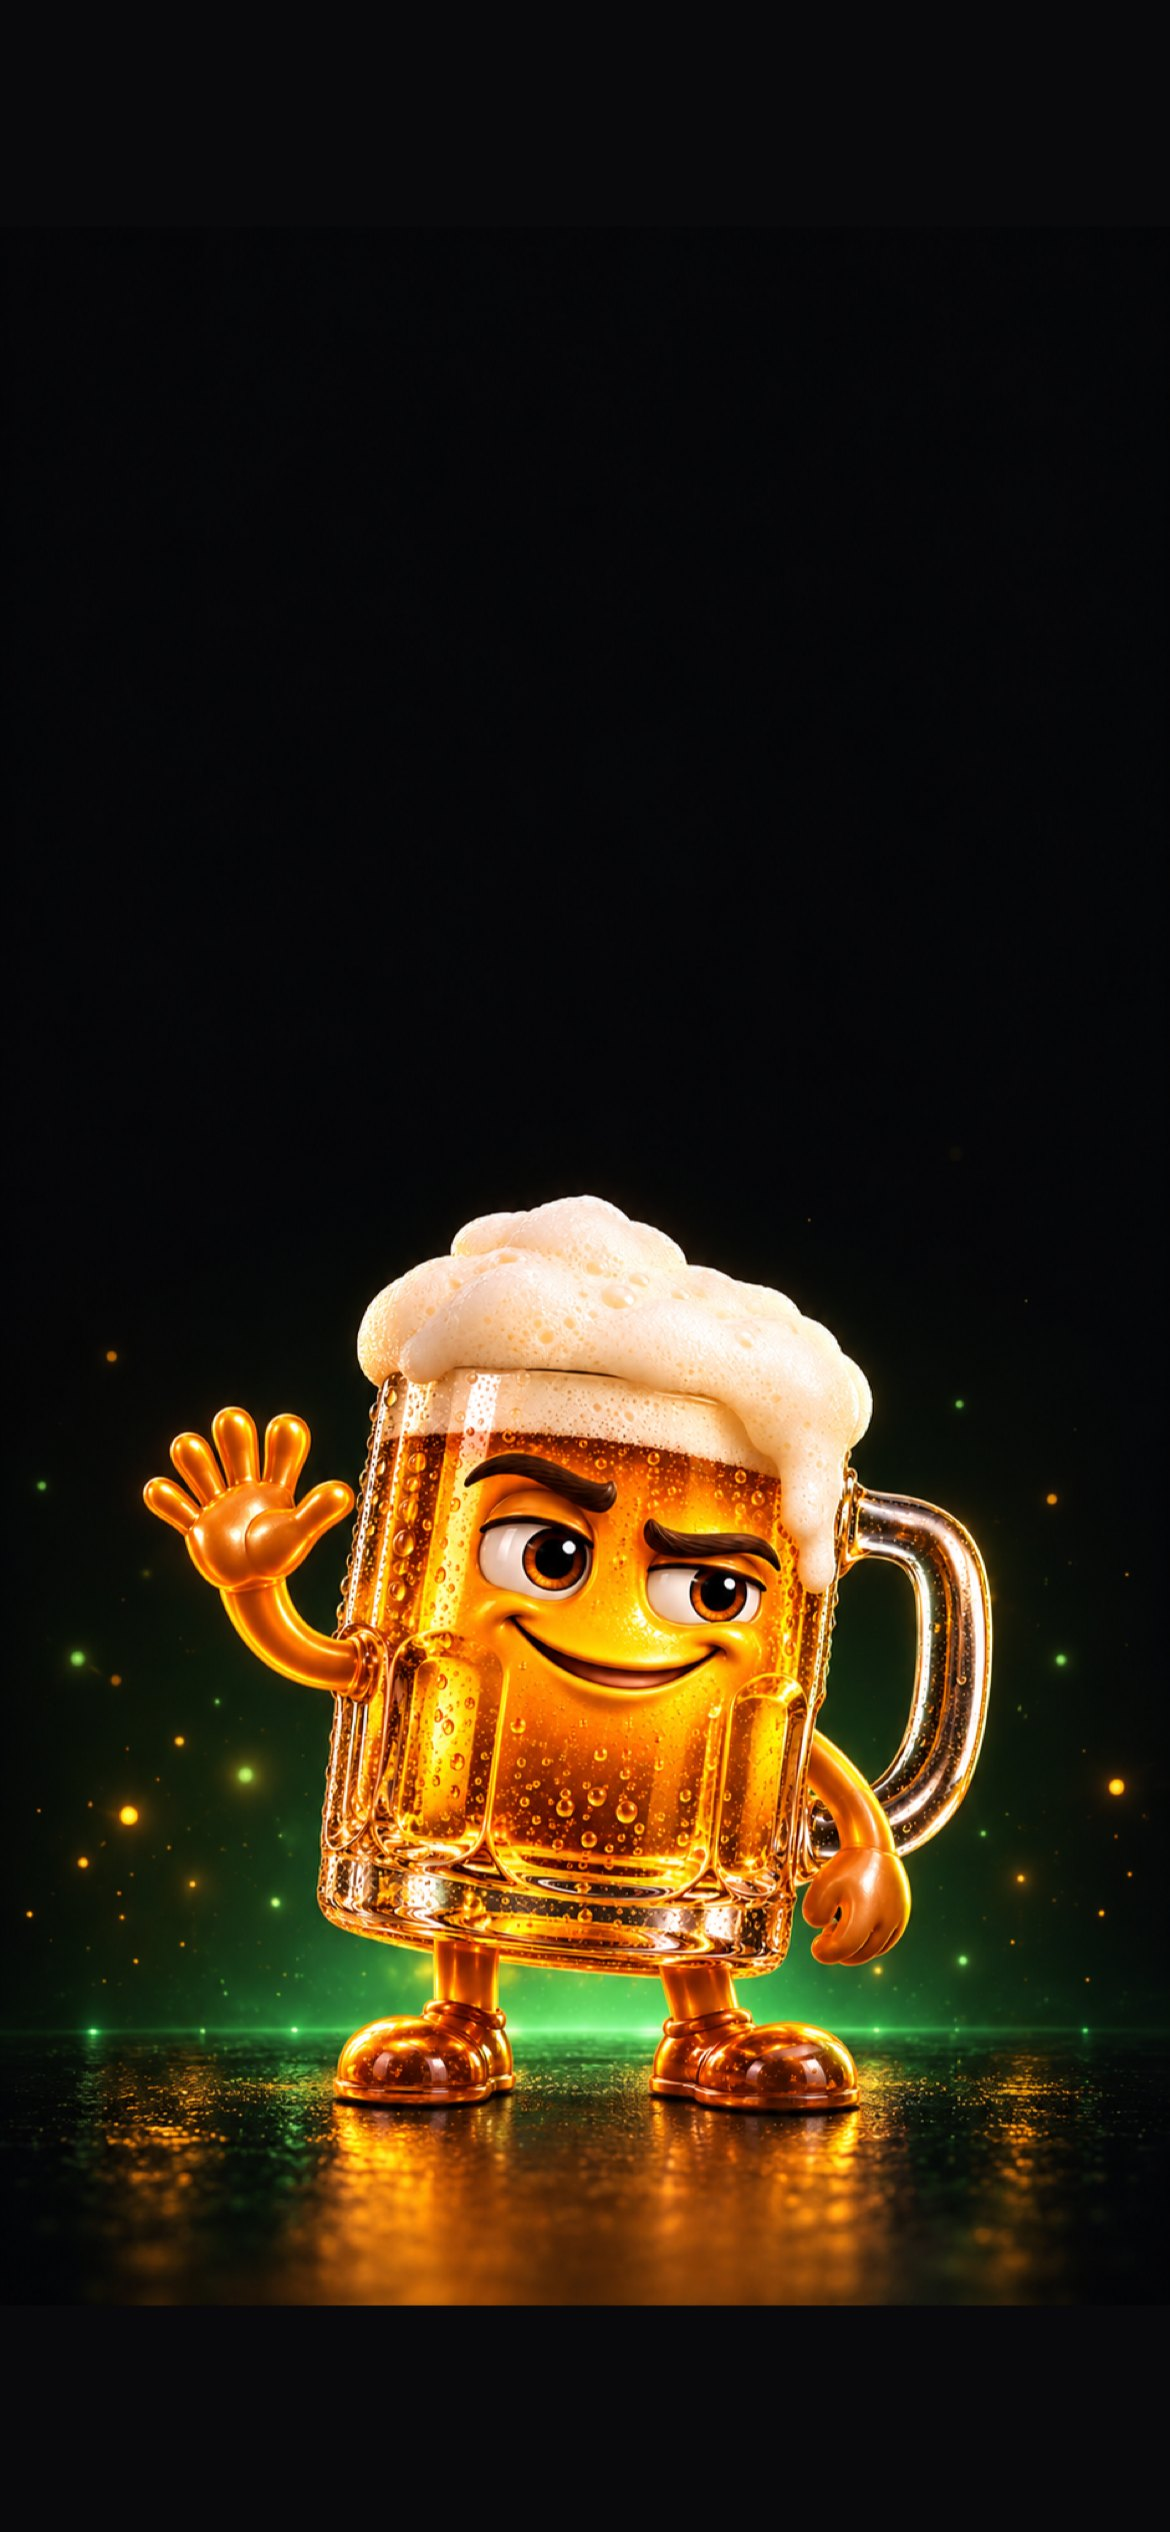
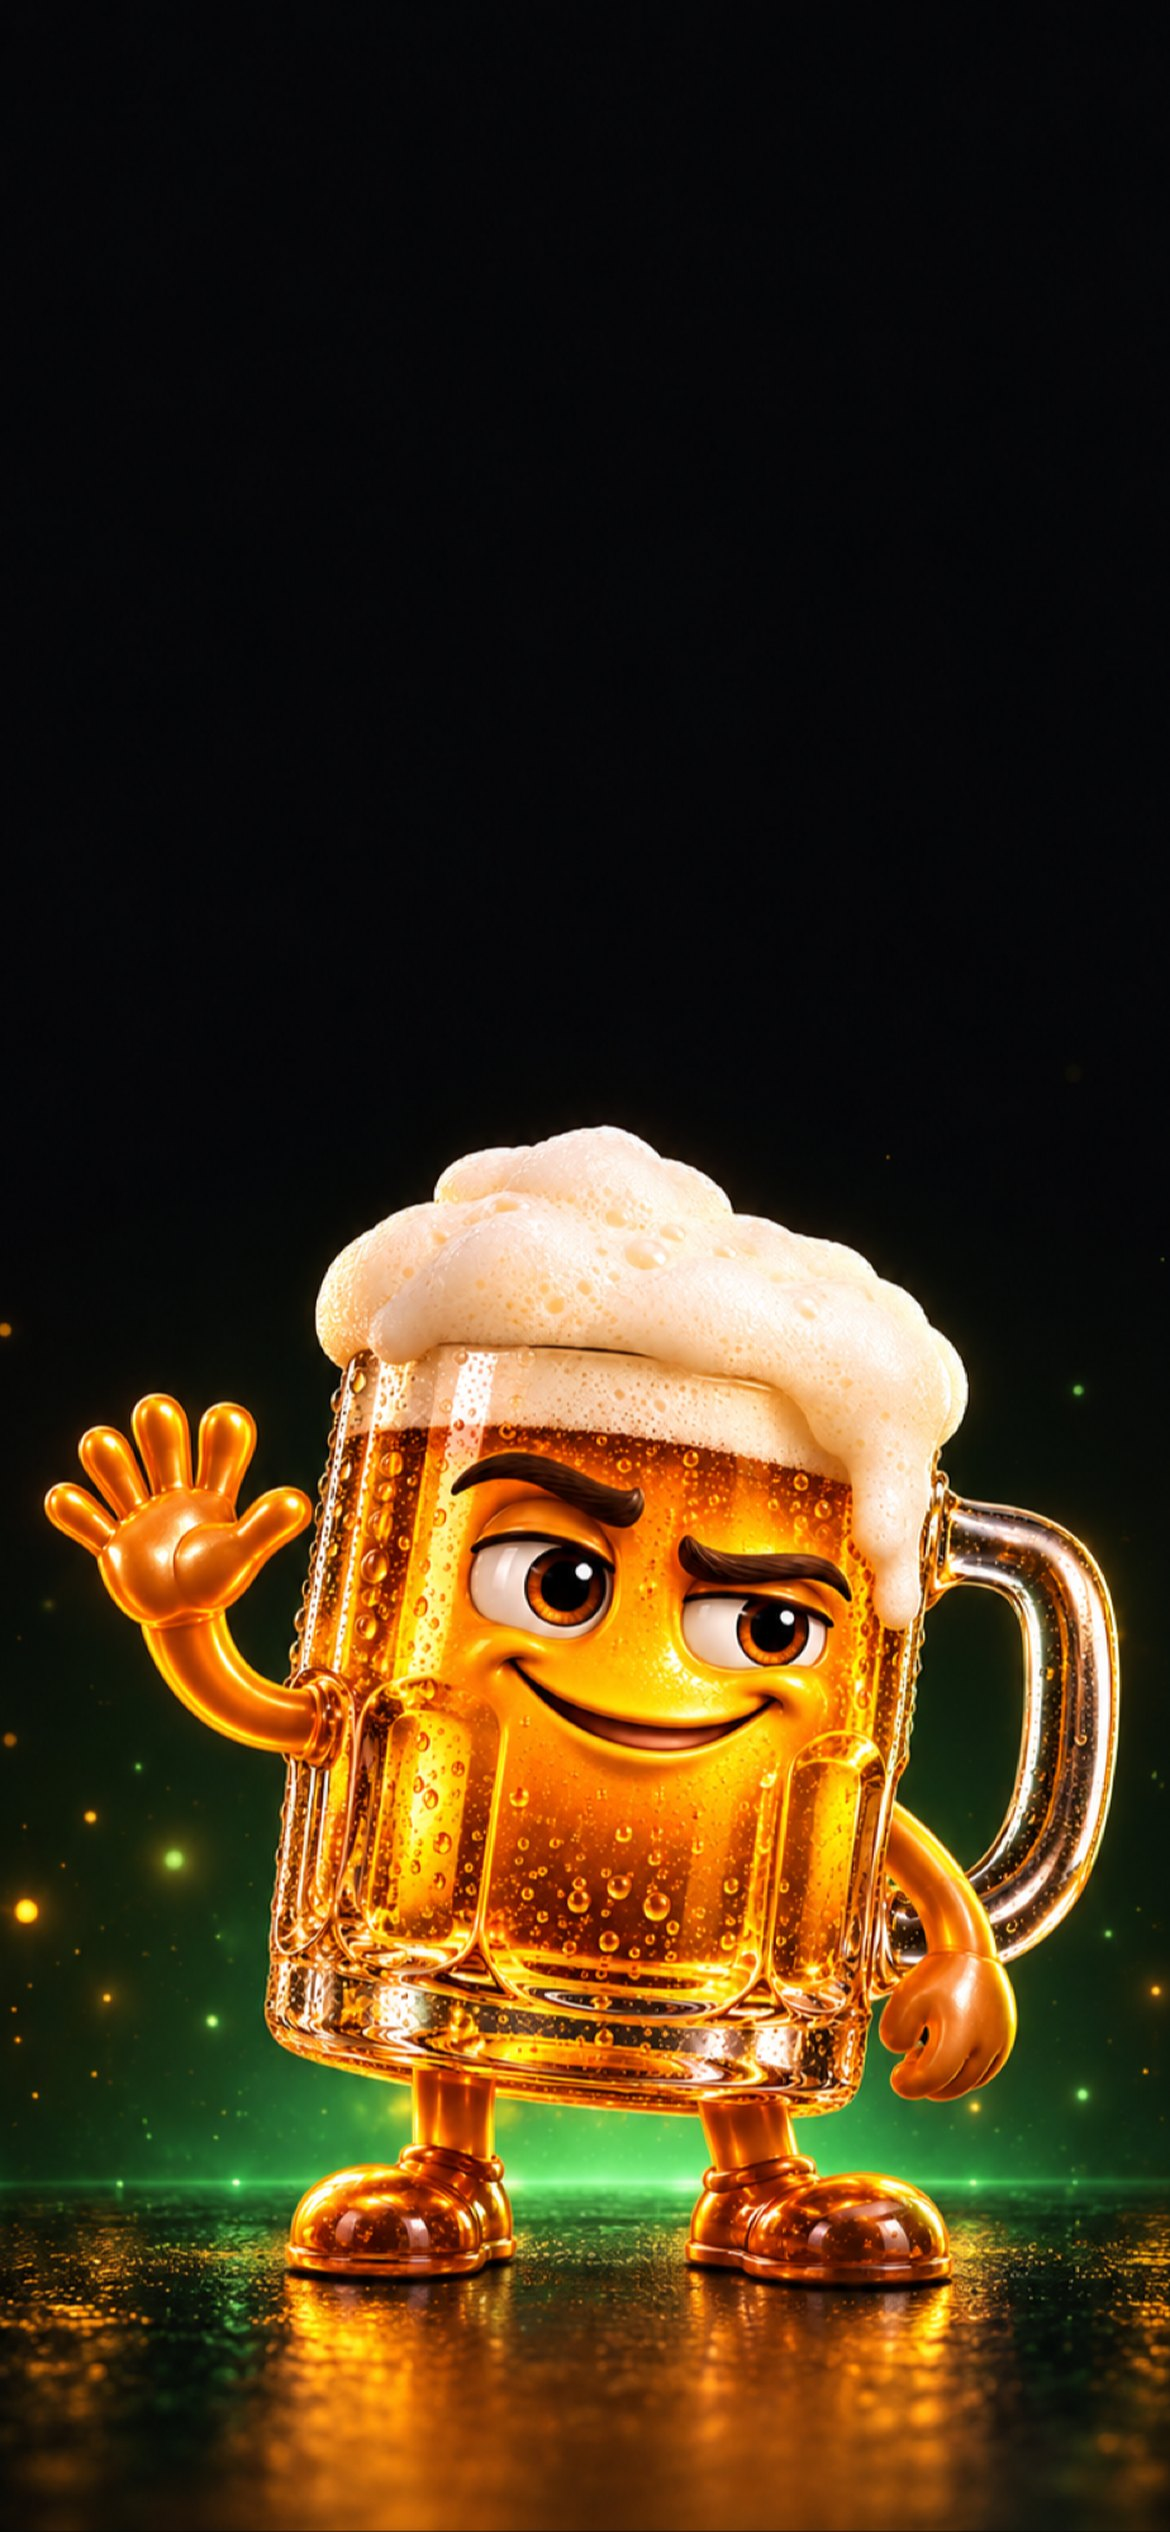
Napunite Kriglu: no eyebrow, shorter line; Pozadine za mobitel; wallpaper 2 recropped (no black band, Krigla aligned)

diff --git a/components/napunite-kriglu.jsx b/components/napunite-kriglu.jsx
@@ -15,9 +15,6 @@ export async function NapuniteKriglu() {
         <img src={`/img/krigla/${s.razina}.webp`} alt={`Krigla je ${s.pct} % puna`} width={480} height={480} className="float relative w-full object-contain" />
       </div>
       <div className="grid gap-4">
-        <span className="font-mono text-[11px] uppercase tracking-[0.16em] text-muted">
-          Krigla {Math.min(s.korak + 1, 4)} od 4{s.sljedeci ? ` · cilj ${s.cilj}` : ""}
-        </span>
         <h2 className="font-display text-[clamp(40px,11vw,56px)] leading-[0.95] uppercase">
           Napunite Kriglu<span className="text-accent">.</span>
         </h2>
@@ -31,7 +28,7 @@ export async function NapuniteKriglu() {
           </p>
         </div>
         <p className="text-[15px] text-soft text-pretty">
-          Svaki potvrđeni upis je jedna kap. Kad se Krigla napuni, otkrije trag o sedmoj funkciji, i kreće nova, veća.
+          Svaki potvrđeni upis je jedna kap. Kad se Krigla napuni, otkriva se trag o sedmoj funkciji.
         </p>
         {s.tragovi.map((t) => (
           <KriglaSays key={t} size={40}>

diff --git a/components/tapete.jsx b/components/tapete.jsx
@@ -39,7 +39,7 @@ export function Tapete() {
 
   return (
     <section data-krigla="Stavi me na zaključani ekran." className="mx-auto grid max-w-3xl gap-6 px-5 py-20">
-      <span className="font-mono text-[11px] uppercase tracking-[0.16em] text-muted">Tapete za mobitel</span>
+      <span className="font-mono text-[11px] uppercase tracking-[0.16em] text-muted">Pozadine za mobitel</span>
       <h2 className="font-display text-[clamp(40px,11vw,52px)] leading-[0.95] uppercase text-balance">
         Krigla na zaključanom ekranu<span className="text-accent">.</span>
       </h2>
